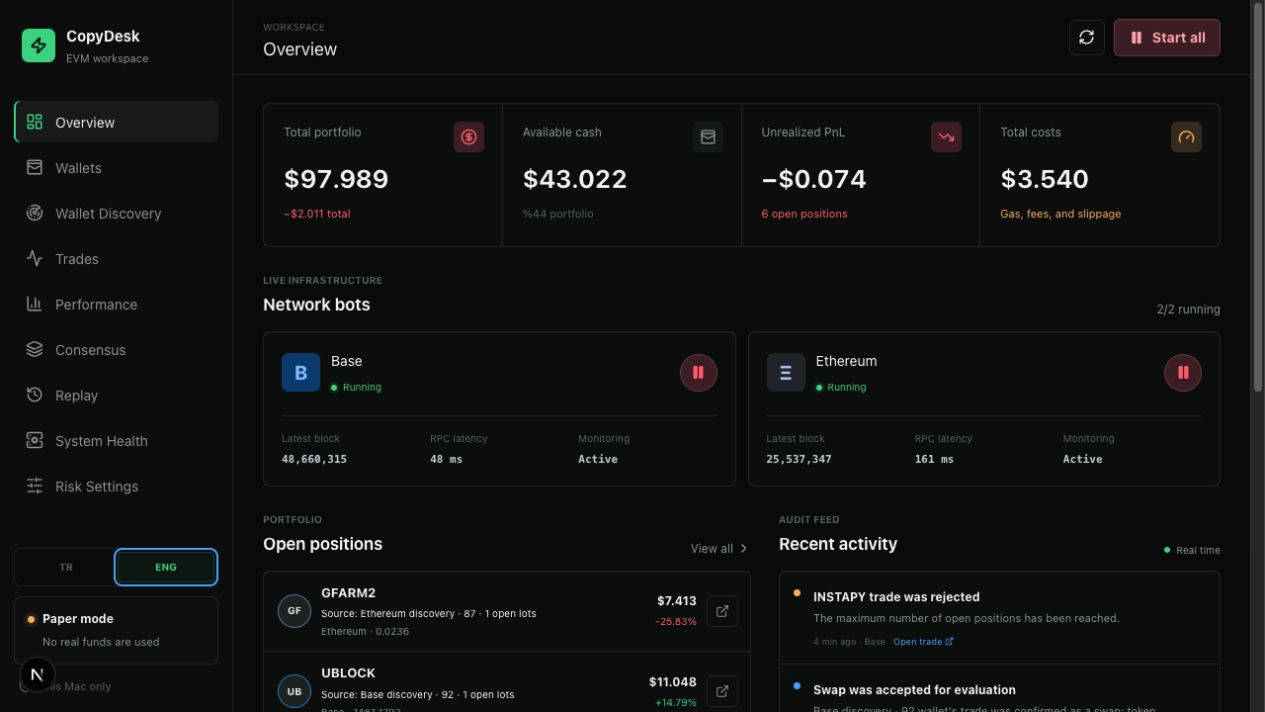
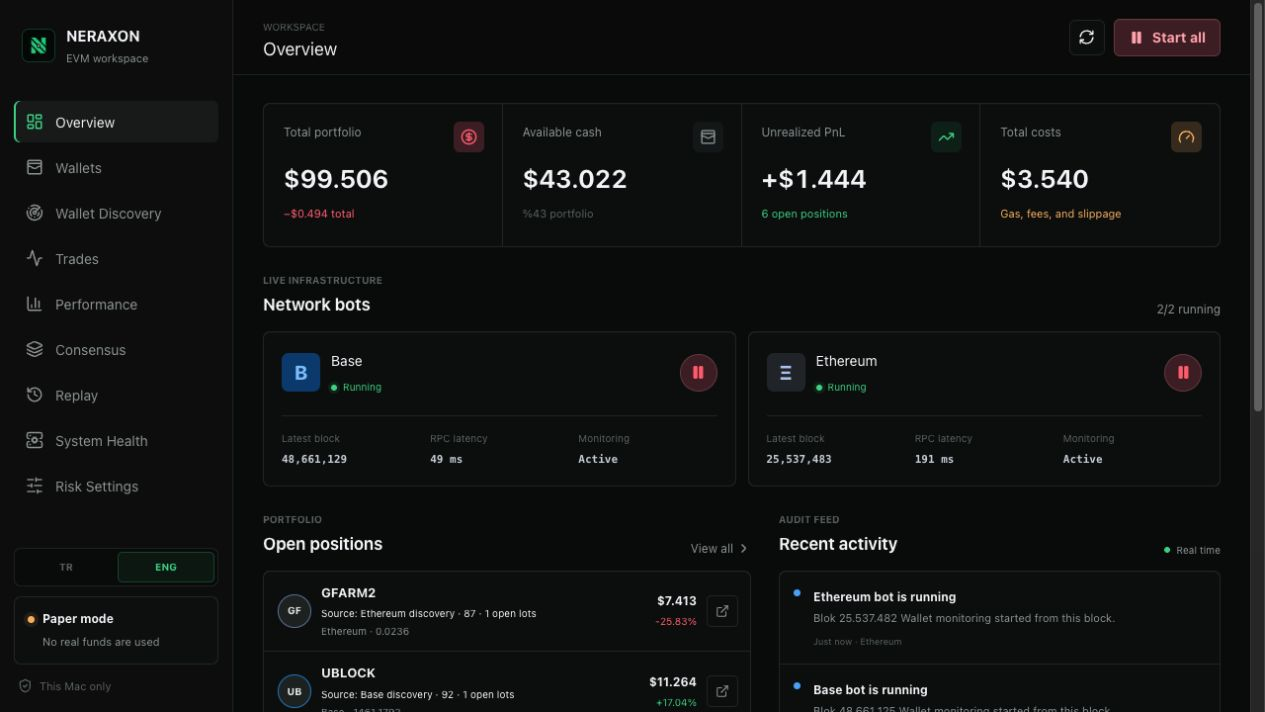
Rebrand application as NERAXON

diff --git a/src/lib/repositories/database.ts b/src/lib/repositories/database.ts
@@ -1,4 +1,4 @@
-import { mkdirSync } from "node:fs";
+import { existsSync, mkdirSync, renameSync } from "node:fs";
 import path from "node:path";
 import { DatabaseSync } from "node:sqlite";
 import { CHAIN_DEFINITIONS, DEFAULT_RISK_SETTINGS, DEFAULT_STARTING_BALANCE_USD } from "@/lib/domain/defaults";
@@ -10,11 +10,26 @@ export function getDatabase(): DatabaseSync {
 
   const dataDirectory = path.join(process.cwd(), "data");
   mkdirSync(dataDirectory, { recursive: true });
-  database = new DatabaseSync(path.join(dataDirectory, "copydesk.db"));
+  const databasePath = path.join(dataDirectory, "neraxon.db");
+  migrateLegacyDatabase(dataDirectory, databasePath);
+  database = new DatabaseSync(databasePath);
   database.exec("PRAGMA journal_mode = WAL; PRAGMA foreign_keys = ON;");
   migrate(database);
   seed(database);
   return database;
+}
+
+function migrateLegacyDatabase(dataDirectory: string, databasePath: string) {
+  if (existsSync(databasePath)) return;
+
+  const legacyPath = path.join(dataDirectory, "copydesk.db");
+  if (!existsSync(legacyPath)) return;
+
+  renameSync(legacyPath, databasePath);
+  for (const suffix of ["-wal", "-shm"]) {
+    const legacySidecar = `${legacyPath}${suffix}`;
+    if (existsSync(legacySidecar)) renameSync(legacySidecar, `${databasePath}${suffix}`);
+  }
 }
 
 function migrate(db: DatabaseSync) {

diff --git a/src/lib/services/bot-orchestrator.ts b/src/lib/services/bot-orchestrator.ts
@@ -239,15 +239,15 @@ const shortAddress = (value: string) => `${value.slice(0, 6)}…${value.slice(-4
 const OBSERVED_TRANSACTION_TTL_MS = 60 * 60 * 1_000;
 const ORCHESTRATOR_VERSION = 7;
 const globalState = globalThis as typeof globalThis & {
-  copydeskOrchestrator?: BotOrchestrator;
-  copydeskOrchestratorVersion?: number;
-  copydeskObservedTransactions?: Map<string, number>;
+  neraxonOrchestrator?: BotOrchestrator;
+  neraxonOrchestratorVersion?: number;
+  neraxonObservedTransactions?: Map<string, number>;
 };
 
 function claimObservedTransaction(chainId: ChainId, transactionHash: string) {
   const now = Date.now();
   const key = `${chainId}:${transactionHash.toLowerCase()}`;
-  const observed = (globalState.copydeskObservedTransactions ??= new Map());
+  const observed = (globalState.neraxonObservedTransactions ??= new Map());
   const claimedAt = observed.get(key);
   if (claimedAt && now - claimedAt < OBSERVED_TRANSACTION_TTL_MS) return false;
   observed.set(key, now);
@@ -260,8 +260,8 @@ function claimObservedTransaction(chainId: ChainId, transactionHash: string) {
 }
 
 export const getBotOrchestrator = () => {
-  if (!globalState.copydeskOrchestrator || globalState.copydeskOrchestratorVersion !== ORCHESTRATOR_VERSION) {
-    const previous = globalState.copydeskOrchestrator as unknown as {
+  if (!globalState.neraxonOrchestrator || globalState.neraxonOrchestratorVersion !== ORCHESTRATOR_VERSION) {
+    const previous = globalState.neraxonOrchestrator as unknown as {
       dispose?: () => void;
       stopHandlers?: Map<ChainId, () => void>;
     } | undefined;
@@ -271,8 +271,8 @@ export const getBotOrchestrator = () => {
       for (const stop of previous?.stopHandlers?.values() ?? []) stop();
       previous?.stopHandlers?.clear();
     }
-    globalState.copydeskOrchestrator = new BotOrchestrator();
-    globalState.copydeskOrchestratorVersion = ORCHESTRATOR_VERSION;
+    globalState.neraxonOrchestrator = new BotOrchestrator();
+    globalState.neraxonOrchestratorVersion = ORCHESTRATOR_VERSION;
   }
-  return globalState.copydeskOrchestrator;
+  return globalState.neraxonOrchestrator;
 };

diff --git a/src/components/dashboard-app.tsx b/src/components/dashboard-app.tsx
@@ -1,5 +1,6 @@
 "use client";
 
+import Image from "next/image";
 import { useCallback, useEffect, useState, type FormEvent } from "react";
 import {
   Activity,
@@ -33,7 +34,6 @@ import {
   UserPlus,
   WalletCards,
   X,
-  Zap,
   BarChart3,
   Layers3,
   History,
@@ -103,7 +103,8 @@ const navigation: Array<{ id: View; label: string; icon: typeof LayoutDashboard 
   { id: "risk", label: "Risk Ayarları", icon: SlidersHorizontal },
 ];
 
-const ACTIVE_VIEW_STORAGE_KEY = "copydesk.activeView";
+const ACTIVE_VIEW_STORAGE_KEY = "neraxon.activeView";
+const LEGACY_ACTIVE_VIEW_STORAGE_KEY = "copydesk.activeView";
 const DASHBOARD_POLL_INTERVAL_MS = 30_000;
 const scrollPageToTop = () => window.scrollTo({ top: 0, left: 0, behavior: "auto" });
 
@@ -151,7 +152,12 @@ export function DashboardApp() {
       () => void refresh({ refreshMarkets: true, showSuccess: false }),
       0,
     );
-    const savedView = window.localStorage.getItem(ACTIVE_VIEW_STORAGE_KEY);
+    const savedView = window.localStorage.getItem(ACTIVE_VIEW_STORAGE_KEY)
+      ?? window.localStorage.getItem(LEGACY_ACTIVE_VIEW_STORAGE_KEY);
+    if (savedView) {
+      window.localStorage.setItem(ACTIVE_VIEW_STORAGE_KEY, savedView);
+      window.localStorage.removeItem(LEGACY_ACTIVE_VIEW_STORAGE_KEY);
+    }
     const viewTimer = navigation.some((item) => item.id === savedView)
       ? window.setTimeout(() => setView(savedView as View), 0)
       : null;
@@ -257,8 +263,8 @@ export function DashboardApp() {
     <div className="app-shell">
       <aside className={`sidebar ${mobileMenu ? "sidebar-open" : ""}`}>
         <div className="brand">
-          <div className="brand-mark"><Zap size={18} strokeWidth={2.4} /></div>
-          <div><strong>CopyDesk</strong><span>EVM çalışma alanı</span></div>
+          <div className="brand-mark"><Image src="/neraxon-icon.png" alt="" width={34} height={34} priority /></div>
+          <div><strong>NERAXON</strong><span>EVM çalışma alanı</span></div>
           <button className="icon-button mobile-close" onClick={() => setMobileMenu(false)} title="Menüyü kapat"><X size={18} /></button>
         </div>
         <nav className="nav-list" aria-label="Ana menü">

diff --git a/src/lib/services/market-data-provider.ts b/src/lib/services/market-data-provider.ts
@@ -173,13 +173,13 @@ function selectMarketSnapshot(chainId: ChainId, tokenAddress: string, pairs: Dex
 
 const MARKET_PROVIDER_VERSION = 4;
 const globalState = globalThis as typeof globalThis & {
-  copydeskMarketData?: MarketDataProvider;
-  copydeskMarketDataVersion?: number;
+  neraxonMarketData?: MarketDataProvider;
+  neraxonMarketDataVersion?: number;
 };
 export const getMarketDataProvider = () => {
-  if (!globalState.copydeskMarketData || globalState.copydeskMarketDataVersion !== MARKET_PROVIDER_VERSION) {
-    globalState.copydeskMarketData = new DexScreenerMarketDataProvider();
-    globalState.copydeskMarketDataVersion = MARKET_PROVIDER_VERSION;
+  if (!globalState.neraxonMarketData || globalState.neraxonMarketDataVersion !== MARKET_PROVIDER_VERSION) {
+    globalState.neraxonMarketData = new DexScreenerMarketDataProvider();
+    globalState.neraxonMarketDataVersion = MARKET_PROVIDER_VERSION;
   }
-  return globalState.copydeskMarketData!;
+  return globalState.neraxonMarketData!;
 };

diff --git a/src/lib/services/wallet-discovery-provider.ts b/src/lib/services/wallet-discovery-provider.ts
@@ -411,13 +411,13 @@ const delay = (milliseconds: number) => new Promise((resolve) => setTimeout(reso
 
 const DISCOVERY_PROVIDER_VERSION = 15;
 const globalDiscovery = globalThis as typeof globalThis & {
-  copydeskDiscoveryProvider?: WalletDiscoveryProvider;
-  copydeskDiscoveryProviderVersion?: number;
+  neraxonDiscoveryProvider?: WalletDiscoveryProvider;
+  neraxonDiscoveryProviderVersion?: number;
 };
 export const getWalletDiscoveryProvider = () => {
-  if (!globalDiscovery.copydeskDiscoveryProvider || globalDiscovery.copydeskDiscoveryProviderVersion !== DISCOVERY_PROVIDER_VERSION) {
-    globalDiscovery.copydeskDiscoveryProvider = new HybridWalletDiscoveryProvider();
-    globalDiscovery.copydeskDiscoveryProviderVersion = DISCOVERY_PROVIDER_VERSION;
+  if (!globalDiscovery.neraxonDiscoveryProvider || globalDiscovery.neraxonDiscoveryProviderVersion !== DISCOVERY_PROVIDER_VERSION) {
+    globalDiscovery.neraxonDiscoveryProvider = new HybridWalletDiscoveryProvider();
+    globalDiscovery.neraxonDiscoveryProviderVersion = DISCOVERY_PROVIDER_VERSION;
   }
-  return globalDiscovery.copydeskDiscoveryProvider;
+  return globalDiscovery.neraxonDiscoveryProvider;
 };

diff --git a/src/app/layout.tsx b/src/app/layout.tsx
@@ -2,8 +2,13 @@ import type { Metadata } from "next";
 import "./globals.css";
 
 export const metadata: Metadata = {
-  title: "EVM CopyDesk",
-  description: "Yerel EVM cüzdan izleme ve paper trading çalışma alanı",
+  applicationName: "NERAXON",
+  title: "NERAXON",
+  description: "Yerel EVM işlem otomasyonu ve akıllı cüzdan takip sistemi",
+  icons: {
+    icon: "/neraxon-icon.png",
+    apple: "/neraxon-icon.png",
+  },
 };
 
 export default function RootLayout({ children }: Readonly<{ children: React.ReactNode }>) {

diff --git a/src/lib/services/service-health.ts b/src/lib/services/service-health.ts
@@ -9,8 +9,8 @@ const labels: Record<string, string> = {
   telegram: "Telegram",
   etherscan: "Etherscan",
 };
-const globalState = globalThis as typeof globalThis & { copydeskHealth?: Map<string, MutableMetric> };
-const metrics = () => (globalState.copydeskHealth ??= new Map());
+const globalState = globalThis as typeof globalThis & { neraxonHealth?: Map<string, MutableMetric> };
+const metrics = () => (globalState.neraxonHealth ??= new Map());
 
 export async function monitorService<T>(id: string, operation: () => Promise<T>, options?: { cacheHit?: boolean }) {
   const startedAt = performance.now();

diff --git a/src/lib/services/telegram-command-service.ts b/src/lib/services/telegram-command-service.ts
@@ -7,7 +7,7 @@ import { monitorService } from "@/lib/services/service-health";
 
 interface TelegramUpdate { update_id: number; message?: TelegramMessage; channel_post?: TelegramMessage }
 interface TelegramMessage { text?: string; chat: { id: number } }
-const globalState = globalThis as typeof globalThis & { copydeskTelegramCommands?: TelegramCommandService };
+const globalState = globalThis as typeof globalThis & { neraxonTelegramCommands?: TelegramCommandService };
 
 class TelegramCommandService {
   private timer: ReturnType<typeof setTimeout> | null = null;
@@ -51,6 +51,6 @@ class TelegramCommandService {
 }
 
 export function startTelegramCommandService() {
-  const service = (globalState.copydeskTelegramCommands ??= new TelegramCommandService());
+  const service = (globalState.neraxonTelegramCommands ??= new TelegramCommandService());
   service.start();
 }

diff --git a/src/app/globals.css b/src/app/globals.css
@@ -44,7 +44,8 @@ button:focus-visible, input:focus-visible, select:focus-visible { outline: 2px s
   background: #090a0a; border-right: 1px solid var(--border);
 }
 .brand { height: 48px; display: flex; align-items: center; gap: 11px; padding: 0 8px; }
-.brand-mark { width: 34px; height: 34px; display: grid; place-items: center; color: #09120d; background: var(--green); border-radius: 7px; }
+.brand-mark { width: 34px; height: 34px; flex: 0 0 34px; overflow: hidden; border: 1px solid rgba(85, 213, 138, .22); border-radius: 7px; background: #050807; }
+.brand-mark img { display: block; width: 100%; height: 100%; object-fit: cover; }
 .brand strong { display: block; font-size: 15px; font-weight: 700; }
 .brand span { display: block; margin-top: 3px; color: var(--muted); font-size: 11px; }
 .nav-list { display: grid; gap: 4px; margin-top: 32px; }

diff --git a/README.md b/README.md
@@ -1,10 +1,14 @@
-# Crypto Trading Bot
+<p align="center">
+  <img src="./public/neraxon-icon.png" width="112" alt="NERAXON icon" />
+</p>
 
-Crypto Trading Bot (CopyDesk) is a modular application that monitors successful wallets on Ethereum and Base, copies eligible swaps into a paper portfolio under configurable risk rules, and lets you manage the entire process from a local web dashboard.
+# NERAXON
+
+NERAXON is a modular trading intelligence application that monitors successful wallets on Ethereum and Base, copies eligible swaps into a paper portfolio under configurable risk rules, and lets you manage the entire process from a local web dashboard. Its architecture is ready for an AI-assisted decision layer in V2.
 
 > V1 operates exclusively in paper trading mode. It does not use real funds or private keys.
 
-![CopyDesk overview dashboard](./docs/dashboard.png)
+![NERAXON overview dashboard](./docs/dashboard.png)
 
 ## Features
 
@@ -36,8 +40,8 @@ Crypto Trading Bot (CopyDesk) is a modular application that monitors successful 
 Requirements: Node.js 22+ and npm.
 
 ```bash
-git clone https://github.com/MustqfaKara/Crypto-Trading-Bot.git
-cd Crypto-Trading-Bot
+git clone https://github.com/MustqfaKara/NERAXON.git
+cd NERAXON
 npm install
 cp .env.example .env.local
 npm run dev

diff --git a/ARCHITECTURE.md b/ARCHITECTURE.md
@@ -1,6 +1,6 @@
 # Mimari
 
-EVM CopyDesk üç ana katmandan oluşur:
+NERAXON üç ana katmandan oluşur:
 
 1. `src/lib/chains`: Ağ bağlantısı, blok izleme, transaction sınıflandırma ve receipt çözümleme.
 2. `src/lib/engine`: Cüzdan skoru, token güvenliği, risk kararı ve paper execution.